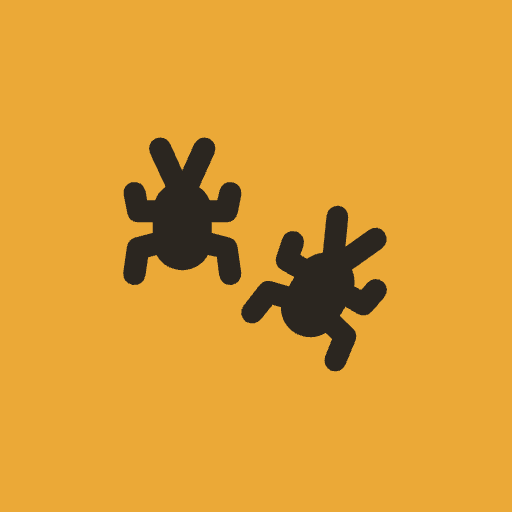
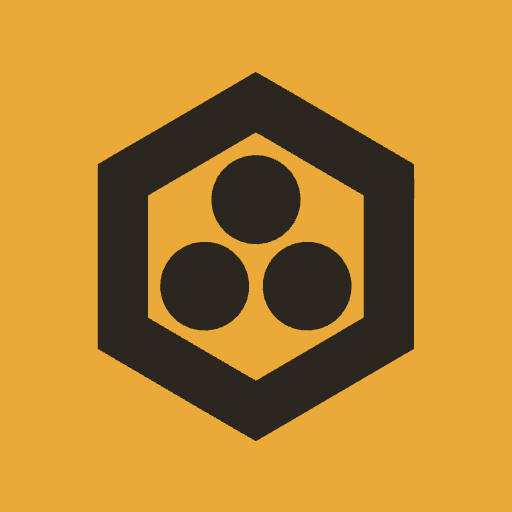
The mark is a hexagonal cell, not a placeholder glyph
The brand mark was Font Awesome's `bugs` in a honey tile, which was always a
stand-in. It is now a real mark: a hexagonal cell holding three members, the
same shape every member avatar wears and the same idea the product is about, a
few people contained. Delivered as files in the design kit, so most of this is
pointing at what is new and deleting what was there.

Executes `Branding handoff.md` in its order.

The three brand SVGs and all nine install tiles are copied in verbatim, PNG for
PNG under the same filenames. The manifest was already identical.

`BrandMark` inlines the mark's path. No Font Awesome, and **no plate**: a
hexagon inside a rounded honey square is two containers for one shape, and at
header size the honey becomes most of what you see. Honey is the accent, not
the identity. Charcoal on light, cream on dark, straight on the page. Sizing is
height-driven with the hexagon's 0.866 ratio, the lockup gap is 0.14 x the
height and the wordmark 0.74, so both scale with the mark instead of coming
apart at large sizes.

The path, the viewBox and the ratio are stated together at the top of the file,
with a comment saying they move together, because the path is cropped to the
viewBox: a new path under a stale one clips about a third of the hexagon and
does not throw. The handoff says that bug happened twice on the design side.
The check is in the harness, not in a reviewer's eye: the verification pass
reads the rendered `getBBox()` and asserts it fits.
[…]

Changed region(s): [[0.1875, 0.125, 0.8125, 0.875]]

diff --git a/app/src/components/ui/BrandMark.tsx b/app/src/components/ui/BrandMark.tsx
@@ -1,43 +1,89 @@
-import { Icon } from './Icon'
+// The Hive lockup: the mark, a hexagonal cell holding three members, and
+// "Hive" in Baloo 2. It is the same shape every member avatar wears, and the
+// same idea the product is about: a few people, contained. The bugs are
+// people, the hexagon is what holds them.
+//
+// The mark goes straight on the page. It used to sit in a honey tile, which
+// was right for a Font Awesome glyph (a bug needs a field behind it to read as
+// a logo) and stopped being right the moment the mark became a hexagon: a
+// hexagon inside a rounded honey square is two containers for one shape, and
+// at header size the honey is most of what you see. Honey is the accent, not
+// the identity. A plate belongs in exactly one place, an app icon, where the
+// mark has to survive a home screen it does not control, and those are the
+// PNGs in public/assets/pwa/, not this component.
 
-const HEX_CLIP = 'polygon(50% 0,100% 25%,100% 75%,50% 100%,0 75%,0 25%)'
+// Copied verbatim from public/assets/brand/hive-mark.svg and
+// hive-mark-small.svg. These four values are one fact and move together: the
+// path is cropped to the viewBox and the ratio is the viewBox's own, so a new
+// path under a stale viewBox clips about a third of the hexagon and does not
+// throw. Regenerate the install tiles from the kit's pwa-icons.html, where
+// each tile states the mark's share of its box as a number, never by resizing
+// a PNG.
+const VIEW_BOX = '0 0 292.7 338'
+const RATIO = 0.866
+const FULL =
+  'M 145.9 0 C 147.5 0.1 276.4 76 290.8 84.4 C 291.3 104.4 290.8 126.7 290.8 146.8 L 290.8 253.6 L 205 303.8 C 185.6 315.1 166.1 326.9 146.7 337.9 C 146.2 338.1 145.9 338 145.4 337.7 C 138.8 333.9 132.1 330.1 125.5 326.2 L 87.1 303.8 L 35.5 273.5 C 24.3 266.9 12.7 260.3 1.7 253.6 L 1.7 84.5 C 18.8 74.1 37.4 63.6 54.7 53.5 L 145.9 0 z M 146 55.4 C 147.9 55.8 168.4 68.3 171.7 70.2 L 245 113.2 L 245 224.9 C 233.7 231.2 221.5 238.7 210.4 245.2 L 146.4 282.7 C 145.9 282.7 53.8 228.7 47.6 225 L 47.6 113.2 C 58.5 106.5 70.5 99.8 81.6 93.2 L 146 55.4 z M 144.3 76.1 C 166.8 75 186 92.4 187.1 114.9 C 188.2 137.5 170.8 156.6 148.3 157.7 C 125.7 158.8 106.6 141.5 105.5 118.9 C 104.4 96.4 121.8 77.2 144.3 76.1 z M 95.8 155.6 C 118.2 153.6 138 170.1 140 192.6 C 142 215 125.4 234.8 102.9 236.7 C 80.5 238.7 60.8 222.1 58.8 199.7 C 56.9 177.3 73.4 157.6 95.8 155.6 z M 189.8 155.6 C 212.3 153.7 231.9 170.5 233.7 192.9 C 235.5 215.3 218.8 235 196.3 236.7 C 173.9 238.5 154.4 221.8 152.6 199.4 C 150.8 177 167.4 157.4 189.8 155.6 z'
+const SILHOUETTE =
+  'M 145.9 0 C 147.5 0.1 276.4 76 290.8 84.4 C 291.3 104.4 290.8 126.7 290.8 146.8 L 290.8 253.6 L 205 303.8 C 185.6 315.1 166.1 326.9 146.7 337.9 C 146.2 338.1 145.9 338 145.4 337.7 C 138.8 333.9 132.1 330.1 125.5 326.2 L 87.1 303.8 L 35.5 273.5 C 24.3 266.9 12.7 260.3 1.7 253.6 L 1.7 84.5 C 18.8 74.1 37.4 63.6 54.7 53.5 L 145.9 0 z'
 
-// The Hive lockup: the Font Awesome 'bugs' mark (docs/08-brand-and-tone.md, the
-// founder's pick) in a honey hexagon + "Hive" in Baloo 2.
+// Two cuts, not one mark squinted at. Three dots inside a ring need about four
+// distinguishable bands across the width and 16 pixels does not have them, so
+// below this the ring and the dots silt into a blob and the silhouette takes
+// over. The height decides the cut here rather than at the call site, so no
+// screen can ask for the one that will not read.
+const FULL_MARK_FROM = 32
+
+// The mark's height in px. `sm` is 32 rather than the kit's 28 so the smallest
+// lockup still gets the full mark, which is what the kit's own screens draw.
+const HEIGHTS = { sm: 32, md: 40, lg: 52 } as const
+
+// Both scale with the mark rather than sitting at fixed pixels. The gap is
+// tight on purpose: a mark and a wordmark are ONE object, so the space between
+// them has to read as smaller than the space around them, and a fixed gap
+// holds at small sizes and comes apart at large, which is exactly when a logo
+// gets looked at hardest.
+const GAP = 0.14
+const WORDMARK = 0.74
+
+const FILL = {
+  ink: 'var(--charcoal)',
+  cream: 'var(--cream)',
+  inherit: 'currentColor',
+} as const
+
 export function BrandMark({
   size = 'md',
-  variant = 'lockup',
+  tone = 'ink',
   showWordmark = true,
 }: {
-  size?: 'sm' | 'md' | 'lg'
-  variant?: 'lockup' | 'hex' | 'invert' | 'glyph'
+  /** The mark's height. A number for anywhere the named scale does not fit. */
+  size?: 'sm' | 'md' | 'lg' | number
+  /** ink on light, cream on dark, inherit for a mark sitting in a run of icons. */
+  tone?: 'ink' | 'cream' | 'inherit'
   showWordmark?: boolean
 }) {
-  const S = { sm: 28, md: 40, lg: 52 }[size]
-  const wordFont = { sm: 20, md: 28, lg: 36 }[size]
-  const hex = variant === 'hex'
-  const invert = variant === 'invert'
+  const h = typeof size === 'number' ? size : HEIGHTS[size]
+  const fill = FILL[tone]
   return (
-    <span className="inline-flex items-center gap-2.5">
-      <span
+    <span className="inline-flex items-center" style={{ gap: Math.round(h * GAP) }}>
+      <svg
+        // Unrounded on purpose: the box is then exactly the mark's, rather
+        // than the mark centred in a box a fraction of a pixel too wide.
+        width={h * RATIO}
+        height={h}
+        viewBox={VIEW_BOX}
         aria-hidden="true"
-        className="grid place-items-center"
-        style={{
-          width: hex ? S * 0.95 : S,
-          height: S,
-          fontSize: Math.round(S * 0.46),
-          background: invert ? 'var(--charcoal)' : 'var(--honey-500)',
-          color: invert ? 'var(--honey-500)' : 'var(--charcoal)',
-          borderRadius: hex ? 0 : 'calc(var(--r-md) - 1px)',
-          clipPath: hex ? HEX_CLIP : 'none',
-        }}
+        style={{ display: 'block', flex: 'none' }}
       >
-        <Icon name="bugs" size={Math.round(S * 0.5)} />
-      </span>
-      {showWordmark && variant !== 'glyph' && (
+        {/* evenodd is what makes this one path: crossing counts give the ring,
+            the field and the dots out of a single silhouette, so recolouring is
+            one attribute and no variant can drift from another. */}
+        <path d={h >= FULL_MARK_FROM ? FULL : SILHOUETTE} fill={fill} fillRule="evenodd" />
+      </svg>
+      {showWordmark && (
         <span
-          className="font-display font-extrabold tracking-tight"
-          style={{ fontSize: wordFont, color: invert ? 'var(--on-dark)' : 'var(--charcoal)' }}
+          className="font-display font-extrabold leading-none"
+          style={{ fontSize: Math.round(h * WORDMARK), letterSpacing: '-0.01em', color: fill }}
         >
           Hive
         </span>

diff --git a/app/src/components/ui/Icon.tsx b/app/src/components/ui/Icon.tsx
@@ -21,7 +21,6 @@
 
 // [viewBoxWidth, viewBoxHeight, path]
 const PATHS: Record<string, [number, number, string]> = {
-  'bugs': [576, 512, 'M164.5 107.4l33.4-73.5c5.5-12.1 .1-26.3-11.9-31.8s-26.3-.1-31.8 11.9L128 71.7 101.9 14.1C96.4 2 82.1-3.3 70.1 2.1S52.7 21.9 58.1 33.9l33.4 73.5c-10.2 7.1-18.2 17-22.9 28.6l-17 0-4.1-20.7c-2.6-13-15.2-21.4-28.2-18.8S-2.1 111.7 .5 124.7l8 40C10.7 175.9 20.6 184 32 184l32 0 0 23.3-37.8 9.5c-9.5 2.4-16.6 10.2-17.9 19.9l-8 56c-1.9 13.1 7.2 25.3 20.4 27.2s25.3-7.2 27.2-20.4l5.7-40 18.4-4.6C82.7 274.6 103.8 288 128 288s45.3-13.4 56.1-33.2l18.4 4.6 5.7 40c1.9 13.1 14 22.2 27.2 20.4s22.2-14 20.4-27.2l-8-56c-1.4-9.7-8.5-17.5-17.9-19.9L192 207.3l0-23.3 32 0c11.4 0 21.3-8.1 23.5-19.3l8-40c2.6-13-5.8-25.6-18.8-28.2s-25.6 5.8-28.2 18.8L204.3 136l-17 0c-4.7-11.6-12.7-21.5-22.9-28.6zM496 286.5l65.6-47c10.8-7.7 13.3-22.7 5.6-33.5s-22.7-13.3-33.5-5.6l-51.4 36.8 6.1-62.9c1.3-13.2-8.4-24.9-21.6-26.2s-24.9 8.4-26.2 21.6L432.8 250c-12.3 1-24.2 5.6-34.1 13.3L384 254.8l6.8-20c4.2-12.6-2.5-26.2-15-30.4s-26.2 2.5-30.4 15l-13.1 38.6c-3.7 10.8 .8 22.8 10.7 28.5l27.7 16L359 322.7 321.5 312c-9.4-2.7-19.5 .6-25.5 8.3l-34.9 44.5c-8.2 10.4-6.4 25.5 4.1 33.7s25.5 6.4 33.7-4.1l25-31.8 18.2 5.2c-.5 22.6 11 44.7 32 56.8s45.9 11 65.2-.7l13.6 13.2-15.1 37.5c-4.9 12.3 1 26.3 13.3 31.2s26.3-1 31.2-13.3L503.5 440c3.6-9.1 1.4-19.4-5.6-26.2l-28-27.1 11.6-20.1 27.7 16c9.9 5.7 22.5 3.7 30-4.9L566.2 347c8.7-10 7.8-25.1-2.2-33.9s-25.1-7.8-33.9 2.2l-13.9 15.9-14.7-8.5c1.7-12.4-.2-25-5.5-36.2z'],
   'bug': [512, 512, 'M256 0c53 0 96 43 96 96l0 3.6c0 15.7-12.7 28.4-28.4 28.4l-135.1 0c-15.7 0-28.4-12.7-28.4-28.4l0-3.6c0-53 43-96 96-96zM41.4 105.4c12.5-12.5 32.8-12.5 45.3 0l64 64c.7 .7 1.3 1.4 1.9 2.1c14.2-7.3 30.4-11.4 47.5-11.4l112 0c17.1 0 33.2 4.1 47.5 11.4c.6-.7 1.2-1.4 1.9-2.1l64-64c12.5-12.5 32.8-12.5 45.3 0s12.5 32.8 0 45.3l-64 64c-.7 .7-1.4 1.3-2.1 1.9c6.2 12 10.1 25.3 11.1 39.5l64.3 0c17.7 0 32 14.3 32 32s-14.3 32-32 32l-64 0c0 24.6-5.5 47.8-15.4 68.6c2.2 1.3 4.2 2.9 6 4.8l64 64c12.5 12.5 12.5 32.8 0 45.3s-32.8 12.5-45.3 0l-63.1-63.1c-24.5 21.8-55.8 36.2-90.3 39.6L272 240c0-8.8-7.2-16-16-16s-16 7.2-16 16l0 239.2c-34.5-3.4-65.8-17.8-90.3-39.6L86.6 502.6c-12.5 12.5-32.8 12.5-45.3 0s-12.5-32.8 0-45.3l64-64c1.9-1.9 3.9-3.4 6-4.8C101.5 367.8 96 344.6 96 320l-64 0c-17.7 0-32-14.3-32-32s14.3-32 32-32l64.3 0c1.1-14.1 5-27.5 11.1-39.5c-.7-.6-1.4-1.2-2.1-1.9l-64-64c-12.5-12.5-12.5-32.8 0-45.3z'],
   'spider': [512, 512, 'M158.4 32.6c4.8-12.4-1.4-26.3-13.8-31s-26.3 1.4-31 13.8L81.1 100c-7.9 20.7-3 44.1 12.7 59.7l57.4 57.4L70.8 190.3c-2.4-.8-4.3-2.7-5.1-5.1L46.8 128.4C42.6 115.8 29 109 16.4 113.2S-3 131 1.2 143.6l18.9 56.8c5.6 16.7 18.7 29.8 35.4 35.4L116.1 256 55.6 276.2c-16.7 5.6-29.8 18.7-35.4 35.4L1.2 368.4C-3 381 3.8 394.6 16.4 398.8s26.2-2.6 30.4-15.2l18.9-56.8c.8-2.4 2.7-4.3 5.1-5.1l80.4-26.8L93.7 352.3C78.1 368 73.1 391.4 81.1 412l32.5 84.6c4.8 12.4 18.6 18.5 31 13.8s18.5-18.6 13.8-31l-32.5-84.6c-1.1-3-.4-6.3 1.8-8.5L160 353.9c1 52.1 43.6 94.1 96 94.1s95-41.9 96-94.1l32.3 32.3c2.2 2.2 2.9 5.6 1.8 8.5l-32.5 84.6c-4.8 12.4 1.4 26.3 13.8 31s26.3-1.4 31-13.8L430.9 412c7.9-20.7 3-44.1-12.7-59.7l-57.4-57.4 80.4 26.8c2.4 .8 4.3 2.7 5.1 5.1l18.9 56.8c4.2 12.6 17.8 19.4 30.4 15.2s19.4-17.8 15.2-30.4l-18.9-56.8c-5.6-16.7-18.7-29.8-35.4-35.4L395.9 256l60.5-20.2c16.7-5.6 29.8-18.7 35.4-35.4l18.9-56.8c4.2-12.6-2.6-26.2-15.2-30.4s-26.2 2.6-30.4 15.2l-18.9 56.8c-.8 2.4-2.7 4.3-5.1 5.1l-80.4 26.8 57.4-57.4c15.6-15.6 20.6-39 12.7-59.7L398.4 15.4C393.6 3 379.8-3.2 367.4 1.6s-18.5 18.6-13.8 31l32.5 84.6c1.1 3 .4 6.3-1.8 8.5L336 174.1l0-14.1c0-31.8-18.6-59.3-45.5-72.2c-9.1-4.4-18.5 3.3-18.5 13.4l0 10.8c0 8.8-7.2 16-16 16s-16-7.2-16-16l0-10.8c0-10.1-9.4-17.7-18.5-13.4C194.6 100.7 176 128.2 176 160l0 14.1-48.3-48.3c-2.2-2.2-2.9-5.6-1.8-8.5l32.5-84.6z'],
   'mosquito': [640, 512, 'M463.7 505.9c9.8-8.9 10.7-24.3 2.1-34.3l-42.1-49 0-54.7c0-5.5-1.8-10.8-5.1-15.1L352 266.3l0-.3L485.4 387.8C542.4 447.6 640 405.2 640 320.6c0-47.9-34-88.3-79.4-94.2l-153-23.9 40.8-40.9c7.8-7.8 9.4-20.1 3.9-29.8L428.5 90.1l38.2-50.9c8-10.6 6.1-25.9-4.3-34.1s-25.2-6.3-33.2 4.4l-48 63.9c-5.9 7.9-6.6 18.6-1.7 27.2L402.2 140 352 190.3l0-38.2c0-14.9-10.2-27.4-24-31l0-57.2c0-4.4-3.6-8-8-8s-8 3.6-8 8l0 57.2c-13.8 3.6-24 16.1-24 31l0 38.1L237.8 140l22.6-39.5c4.9-8.6 4.2-19.3-1.7-27.2l-48-63.9c-8-10.6-22.8-12.6-33.2-4.4s-12.2 23.5-4.3 34.1l38.2 50.9-23.9 41.7c-5.5 9.7-3.9 22 3.9 29.8l40.8 40.9-153 23.9C34 232.3 0 272.7 0 320.6c0 84.6 97.6 127 154.6 67.1L288 266l0 .3-66.5 86.4c-3.3 4.3-5.1 9.6-5.1 15.1l0 54.7-42.1 49c-8.6 10.1-7.7 25.5 2.1 34.3s24.7 7.9 33.4-2.1l48-55.9c3.8-4.4 5.9-10.2 5.9-16.1l0-55.4L288 344.7l0 63.1c0 17.7 14.3 32 32 32s32-14.3 32-32l0-63.1 24.3 31.6 0 55.4c0 5.9 2.1 11.7 5.9 16.1l48 55.9c8.6 10.1 23.6 11 33.4 2.1z'],
@@ -132,12 +131,18 @@ export function Icon({
 }) {
   // An unratified name used to destructure undefined and throw, which takes
   // the whole screen down over a missing glyph. A design handover will always
-  // arrive naming icons this set does not have yet, so it degrades to the
-  // brand mark and says which name was missing instead of crashing.
+  // arrive naming icons this set does not have yet, so it degrades and says
+  // which name was missing instead of crashing.
+  //
+  // It falls back to a plain circle, and that is a deliberately empty shape.
+  // This used to fall back to the brand mark, which was a glyph in this set
+  // when the mark was Font Awesome's `bugs`; the mark is its own drawing now
+  // (BrandMark.tsx) and does not belong here. Anything with a meaning, an info
+  // dot or a bug, would read as content rather than as a hole.
   const glyph = PATHS[name] ?? BRAND_PATHS[name]
   if (!glyph) {
     if (process.env.NODE_ENV !== 'production') console.warn(`[Icon] glifo desconocido: "${name}"`)
-    return <Icon name="bugs" size={size} className={className} label={label} />
+    return <Icon name="circle" size={size} className={className} label={label} />
   }
   const [w, h, d] = glyph
   return (

diff --git a/app/src/components/ui/BeeLoader.tsx b/app/src/components/ui/BeeLoader.tsx
@@ -1,19 +1,29 @@
-// The one sanctioned motion flourish: a dotted bee-path that animates, with a
-// "Zumbando..." wink. Keep it to loading states.
-export function BeeLoader({ label = 'Zumbando…', width = 120 }: { label?: string; width?: number }) {
+import { BrandMark } from './BrandMark'
+
+// The app's one sanctioned motion flourish, and it means "the thing you just
+// did is running", never "this screen is on its way" (that is Skeleton).
+//
+// It used to be a dotted bee-path scrolling sideways. It is the mark now, and
+// it does not rotate: a spinning hexagon reads as somebody else's loading
+// spinner, and the mark is a container, not a wheel. A quiet opacity pulse is
+// enough to say something is still happening without competing with the copy
+// next to it. `prefers-reduced-motion` stills it, and the label carries the
+// meaning on its own.
+//
+// The label is optional and has no default. It used to default to a hardcoded
+// "Zumbando…", which meant an English phone got one Spanish word in the middle
+// of an English screen.
+export function BeeLoader({ label }: { label?: string }) {
   return (
     <span className="inline-flex items-center gap-2.5">
-      <span
-        className="h-[3px] rounded-[3px]"
-        style={{
-          width,
-          backgroundImage: 'radial-gradient(circle, var(--honey-500) 1.5px, transparent 1.8px)',
-          backgroundSize: '11px 3px',
-          backgroundRepeat: 'repeat-x',
-          animation: 'hive-beepath 1.1s linear infinite',
-        }}
-      />
-      <span className="font-body text-xs font-bold text-sage-600">{label}</span>
+      {/* The smallest size that still gets the full mark, and side by side
+          with the silhouette it is also the lighter of the two: the cut-out
+          field is what keeps a hexagon from reading as a dark blob beside a
+          line of 12px text. */}
+      <span aria-hidden="true" className="hive-pulse leading-none">
+        <BrandMark size="sm" showWordmark={false} />
+      </span>
+      {label && <span className="font-body text-xs font-bold text-sage-600">{label}</span>}
     </span>
   )
 }

diff --git a/app/src/components/ui/InstallPwa.tsx b/app/src/components/ui/InstallPwa.tsx
@@ -1,6 +1,7 @@
 'use client'
 
 import { useEffect, useState } from 'react'
+import { BrandMark } from '@/components/ui/BrandMark'
 import { Icon } from '@/components/ui/Icon'
 import { useT } from '@/components/ui/LangProvider'
 
@@ -126,8 +127,12 @@ export function InstallPwa() {
             Elige &quot;Agregar a inicio&quot;.
           </li>
           <li className="flex items-center gap-2.5">
+            {/* The mark, because this step is "look for this on your home
+                screen". It takes the row's colour like the two glyphs above
+                it: the sunk square is the step's tile, not a plate under the
+                logo, and honey here would make the third step shout. */}
             <span className="grid h-6 w-6 flex-shrink-0 place-items-center rounded-sm bg-cream-sunk text-ink-500">
-              <Icon name="bugs" size={11} />
+              <BrandMark size={12} tone="inherit" showWordmark={false} />
             </span>
             Ábrelo desde ahí y ya está.
           </li>

diff --git a/app/src/app/globals.css b/app/src/app/globals.css
@@ -327,12 +327,29 @@ textarea::placeholder {
   color: var(--text-faint);
 }
 
-@keyframes hive-beepath {
-  from {
-    background-position: 0 0;
+/* BeeLoader's pulse. It fades rather than turns: a rotating hexagon reads as a
+ * loading spinner borrowed from another product, and the mark is a container,
+ * not a wheel. It never reaches zero, so the shape stays legible the whole way
+ * through and the pulse reads as breathing rather than blinking. */
+@keyframes hive-pulse {
+  0%,
+  100% {
+    opacity: 1;
   }
-  to {
-    background-position: 22px 0;
+  50% {
+    opacity: 0.35;
+  }
+}
+
+.hive-pulse {
+  animation: hive-pulse 1.4s ease-in-out infinite;
+}
+
+/* Anyone who has asked for less motion gets the mark held still. The label
+ * beside it is what carries the meaning, so nothing is lost. */
+@media (prefers-reduced-motion: reduce) {
+  .hive-pulse {
+    animation: none;
   }
 }
 

diff --git a/app/src/app/c/[token]/page.tsx b/app/src/app/c/[token]/page.tsx
@@ -35,7 +35,7 @@ export default async function ClubJoinPage({ params }: { params: Promise<{ token
       <main className="mx-auto flex min-h-screen max-w-entry flex-col justify-center px-4 pb-10 pt-6">
         <Card honeycomb className="text-center">
           <div className="mb-4 flex justify-center">
-            <BrandMark size="sm" variant="hex" showWordmark={false} />
+            <BrandMark size="sm" showWordmark={false} />
           </div>
           <p className="eyebrow mb-1 text-honey-700">{tr('club.private')}</p>
           <h1 className="mb-2 font-display text-xl font-bold text-ink-900">«{preview.club_name}»</h1>

diff --git a/app/src/app/c/[token]/club-join-request.tsx b/app/src/app/c/[token]/club-join-request.tsx
@@ -20,7 +20,7 @@ export default function ClubJoinRequest({ token, clubName }: Props) {
     <main className="mx-auto flex min-h-screen max-w-entry flex-col justify-center px-4 pb-10 pt-6">
       <Card honeycomb>
         <div className="mb-4 flex justify-center">
-          <BrandMark size="sm" variant="hex" showWordmark={false} />
+          <BrandMark size="sm" showWordmark={false} />
         </div>
         <p className="eyebrow mb-1 text-center text-honey-700">Únete a</p>
         <h1 className="mb-6 text-center font-display text-xl font-bold text-ink-900">

diff --git a/app/src/app/c/[token]/club-join-signin.tsx b/app/src/app/c/[token]/club-join-signin.tsx
@@ -41,7 +41,7 @@ export default function ClubJoinSignIn({ token, clubName }: Props) {
     <main className="mx-auto flex min-h-screen max-w-entry flex-col justify-center px-4 pb-10 pt-6">
       <Card honeycomb>
         <div className="mb-4 flex justify-center">
-          <BrandMark size="sm" variant="hex" showWordmark={false} />
+          <BrandMark size="sm" showWordmark={false} />
         </div>
         <p className="eyebrow mb-1 text-center text-honey-700">Únete a</p>
         <h1 className="mb-6 text-center font-display text-xl font-bold text-ink-900">

diff --git a/app/src/app/i/[token]/invite-signin.tsx b/app/src/app/i/[token]/invite-signin.tsx
@@ -129,7 +129,7 @@ export default function InviteSignIn({
           style={{ backgroundImage: 'var(--honeycomb)', backgroundColor: 'var(--cream)' }}
         >
           <div className="mb-4">
-            <BrandMark size="sm" variant="hex" showWordmark={false} />
+            <BrandMark size="sm" showWordmark={false} />
           </div>
           <p className="eyebrow text-honey-700">{tr('inv.youWere')}</p>
           <h1 className="mt-1 font-display text-[26px] font-bold leading-tight text-ink-900">{headerTitle}</h1>

diff --git a/app/src/app/signin.tsx b/app/src/app/signin.tsx
@@ -118,7 +118,7 @@ export default function SignIn() {
           for as long as it existed. The rule is in `@layer base` now. */}
       <div className="rounded-2xl bg-charcoal px-7 py-8 shadow-pop">
         <div className="mb-6">
-          <BrandMark variant="invert" />
+          <BrandMark tone="cream" />
         </div>
 
         {sent ? (

diff --git a/app/src/app/page.tsx b/app/src/app/page.tsx
@@ -397,7 +397,7 @@ export default async function Home() {
         <SectionHeader>{t('home.clubs')}</SectionHeader>
         {clubs.length === 0 ? (
           <EmptyState
-            icon="bugs"
+            icon="hashtag"
             title={t('home.clubs.empty.title')}
             hint={t('home.clubs.empty.short')}
           />

diff --git a/app/src/components/ui/EmptyState.tsx b/app/src/components/ui/EmptyState.tsx
@@ -3,7 +3,7 @@ import { Icon, type IconName } from './Icon'
 
 // Empty states carry the wink; this is where the bee puns live.
 export function EmptyState({
-  icon = 'bugs',
+  icon = 'jar',
   title,
   hint,
   action,
